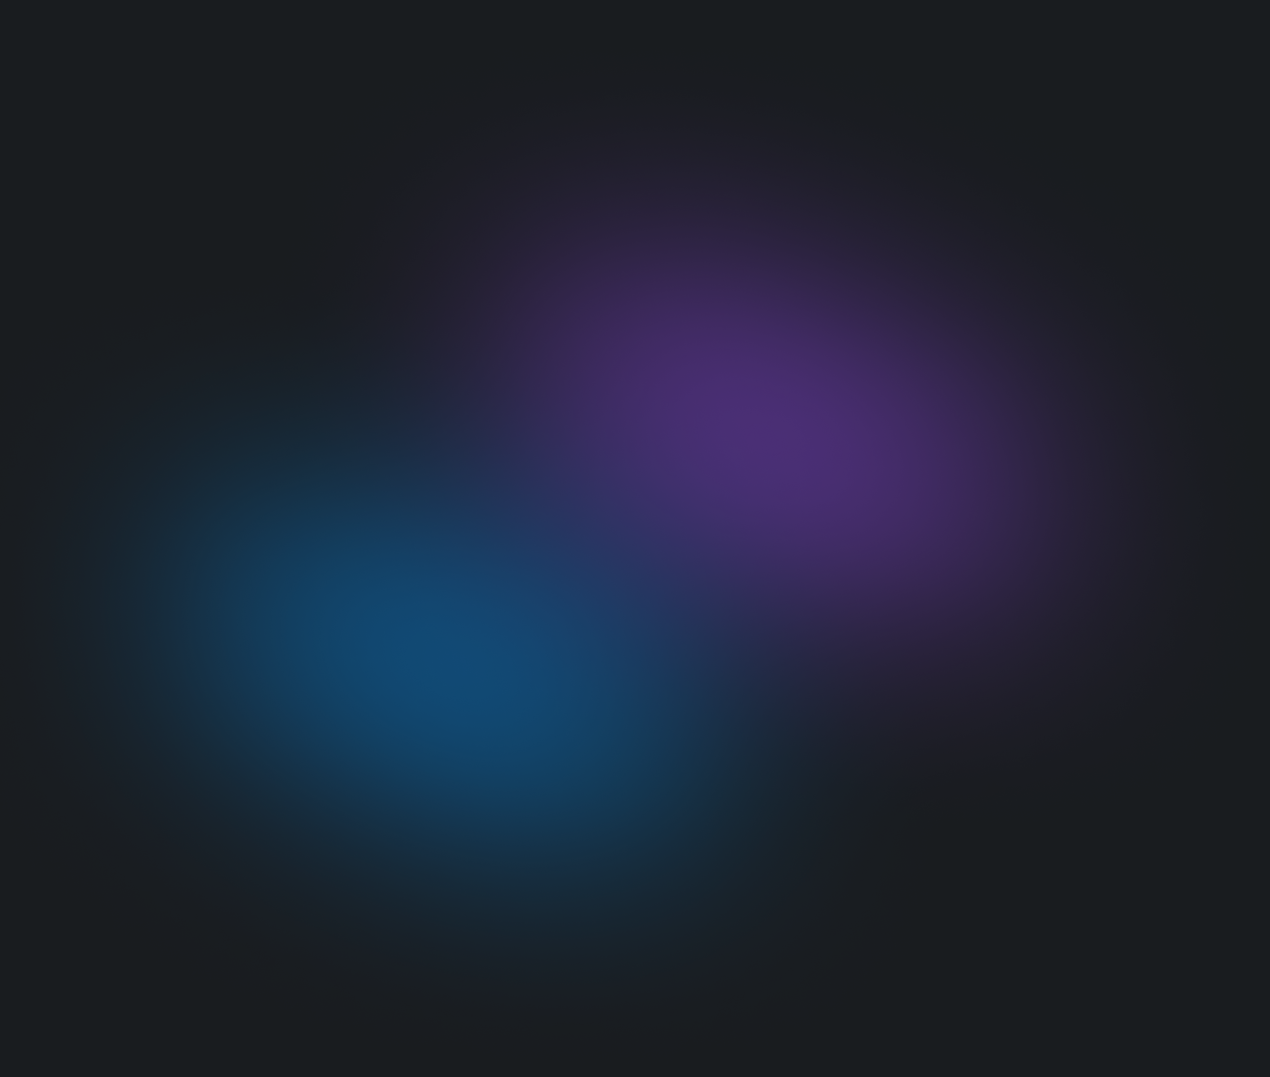
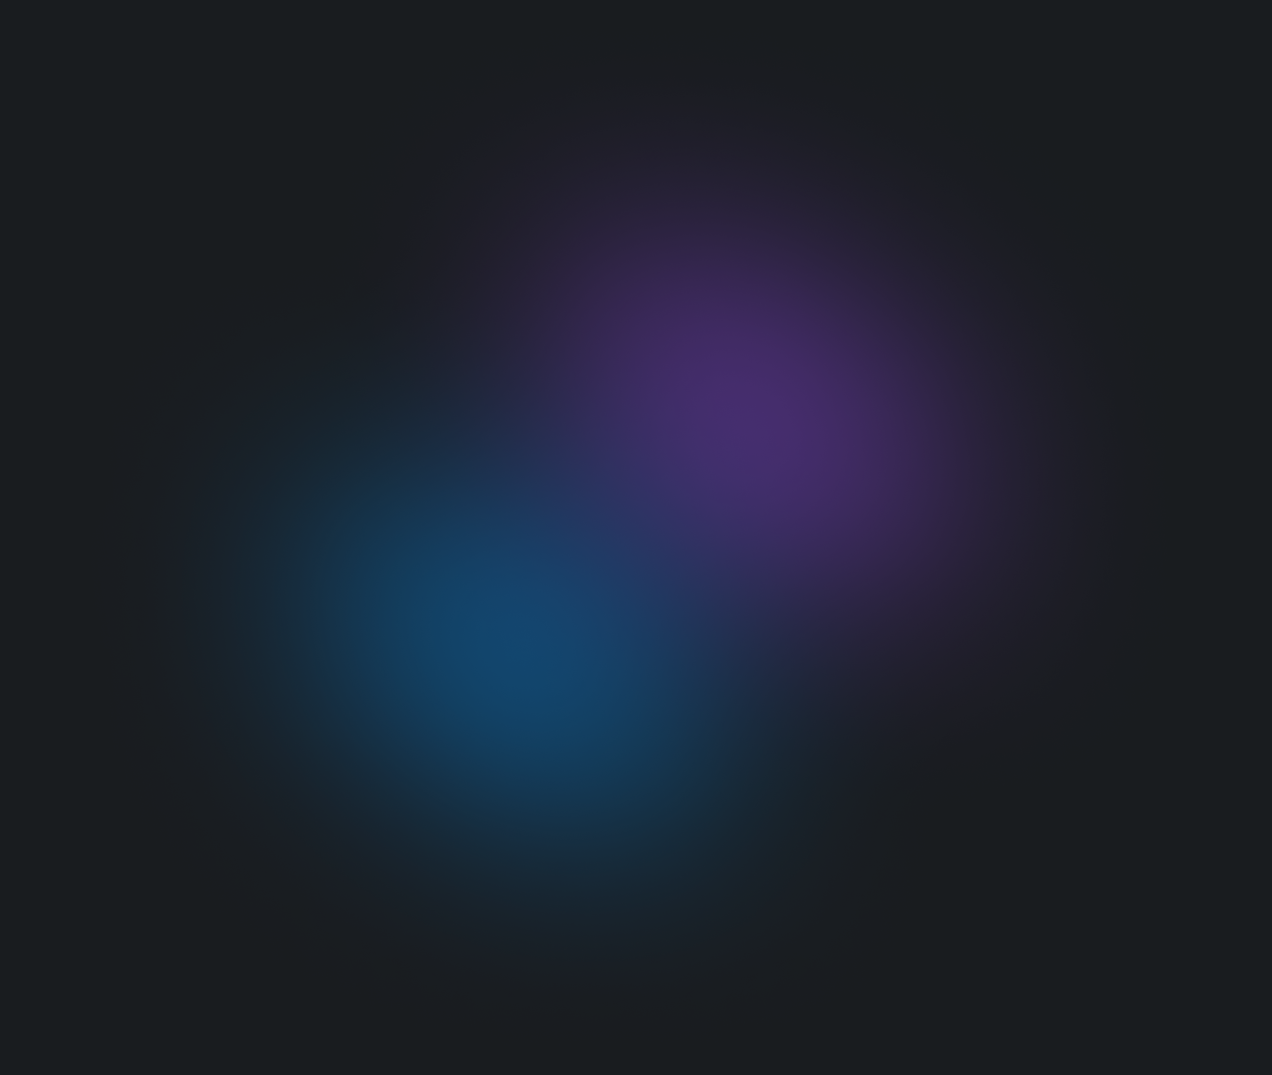
Update landing gradient image

Changed region(s): [[0.1228, 0.4605, 0.3378, 0.7367], [0.737, 0.4298, 0.7984, 0.4912]]

diff --git a/styles/Home.module.css b/styles/Home.module.css
@@ -37,7 +37,7 @@
 
 .heroBackgroundInner {
   position: absolute;
-  top: -238px;
+  top: -352px;
   left: 50%;
   width: clamp(1000px, calc(59.6vw + 776px), 1540px);
   aspect-ratio: 1/1;
